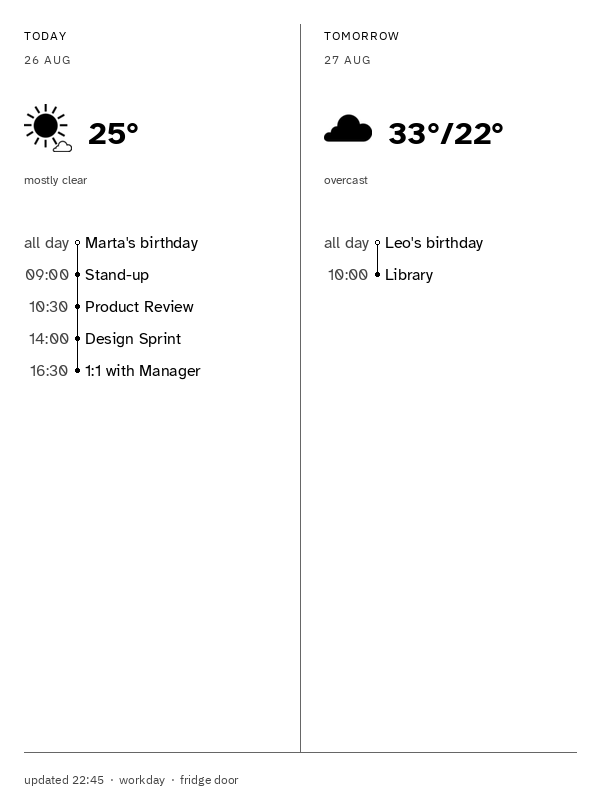
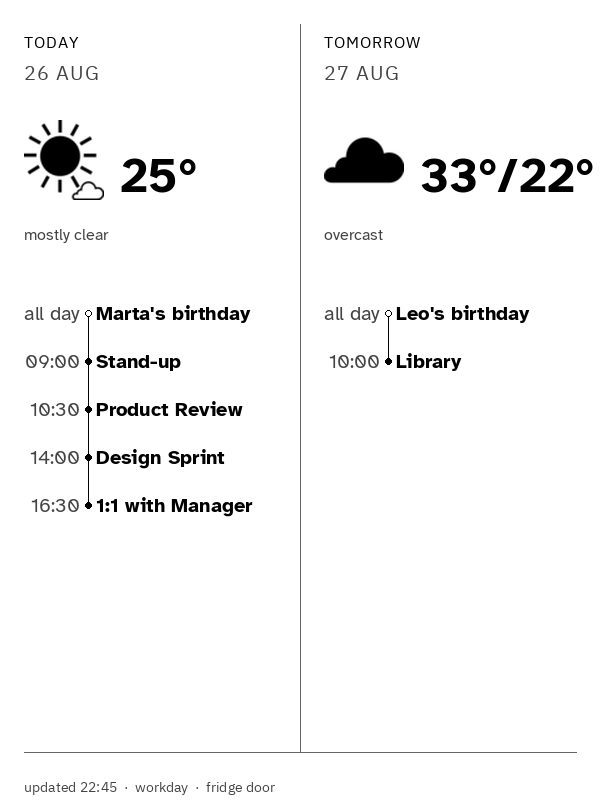
feat✨: ship image entity as 0.2.3
Add a HomeKindle device with image.homekindle_dashboard
so the PNG can be previewed and added to Lovelace.
Enlarge dashboard type for fridge glance and refresh
the README screenshot.

diff --git a/custom_components/homekindle/image.py b/custom_components/homekindle/image.py
@@ -1,0 +1,118 @@
+"""Dashboard image entity. Helpers stay importable without Home Assistant."""
+
+from __future__ import annotations
+
+import logging
+from typing import Any
+
+from .const import DOMAIN
+from .options import (
+    CONF_KINDLE_MODEL,
+    CONF_REFRESH_MINUTES,
+    DEFAULT_REFRESH_MINUTES,
+    KINDLE_PW1,
+    KINDLE_TOUCH,
+    refresh_interval,
+)
+
+_LOGGER = logging.getLogger(__name__)
+
+
+def kindle_model_label(model: str) -> str:
+    if model == KINDLE_PW1:
+        return "Paperwhite 1"
+    return "Kindle Touch"
+
+
+def dashboard_unique_id(entry_id: str) -> str:
+    return f"{entry_id}_dashboard"
+
+
+def dashboard_device_info(entry_id: str, model: str) -> dict[str, Any]:
+    known = model if model in {KINDLE_TOUCH, KINDLE_PW1} else KINDLE_TOUCH
+    return {
+        "identifiers": {(DOMAIN, entry_id)},
+        "name": "HomeKindle",
+        "manufacturer": "HomeKindle",
+        "model": kindle_model_label(known),
+        "model_id": known,
+    }
+
+
+try:
+    from homeassistant.components.image import ImageEntity
+    from homeassistant.config_entries import ConfigEntry
+    from homeassistant.core import HomeAssistant, callback
+    from homeassistant.helpers.device_registry import DeviceInfo
+    from homeassistant.helpers.entity_platform import AddEntitiesCallback
+    from homeassistant.helpers.update_coordinator import DataUpdateCoordinator
+    from homeassistant.util import dt as dt_util
+
+    from .dashboard import render_or_last_good
+    from .ha_view import ha_states
+
+    async def async_setup_entry(
+        hass: HomeAssistant,
+        entry: ConfigEntry,
+        async_add_entities: AddEntitiesCallback,
+    ) -> None:
+        options = hass.data[DOMAIN]["options"]
+        minutes = int(options.get(CONF_REFRESH_MINUTES) or DEFAULT_REFRESH_MINUTES)
+
+        async def _async_update() -> bytes:
+            opts = hass.data[DOMAIN]["options"]
+            return await hass.async_add_executor_job(
+                render_or_last_good, opts, ha_states(hass)
+            )
+
+        coordinator: DataUpdateCoordinator[bytes] = DataUpdateCoordinator(
+            hass,
+            _LOGGER,
+            config_entry=entry,
+            name="homekindle",
+            update_interval=refresh_interval(minutes),
+            update_method=_async_update,
+            always_update=False,
+        )
+        await coordinator.async_config_entry_first_refresh()
+        async_add_entities([HomeKindleImage(hass, entry, coordinator)])
+
+    class HomeKindleImage(ImageEntity):
+        _attr_has_entity_name = True
+        _attr_translation_key = "dashboard"
+        _attr_content_type = "image/png"
+
+        def __init__(
+            self,
+            hass: HomeAssistant,
+            entry: ConfigEntry,
+            coordinator: DataUpdateCoordinator[bytes],
+        ) -> None:
+            super().__init__(hass)
+            self.coordinator = coordinator
+            model = str(
+                hass.data[DOMAIN]["options"].get(CONF_KINDLE_MODEL) or KINDLE_TOUCH
+            )
+            self._attr_unique_id = dashboard_unique_id(entry.entry_id)
+            self._attr_device_info = DeviceInfo(
+                **dashboard_device_info(entry.entry_id, model)
+            )
+            if coordinator.data:
+                self._attr_image_last_updated = dt_util.utcnow()
+
+        async def async_added_to_hass(self) -> None:
+            await super().async_added_to_hass()
+            self.async_on_remove(
+                self.coordinator.async_add_listener(self._handle_coordinator_update)
+            )
+
+        @callback
+        def _handle_coordinator_update(self) -> None:
+            self._attr_image_last_updated = dt_util.utcnow()
+            self.async_write_ha_state()
+
+        async def async_image(self) -> bytes | None:
+            return self.coordinator.data
+
+except ImportError:
+    pass

diff --git a/custom_components/homekindle/render.py b/custom_components/homekindle/render.py
@@ -25,12 +25,12 @@ _TIMELINE: dict[str, tuple[int, tuple[int, ...]]] = {}
 
 # 8pt spacing grid (600 and 800 divide by 8). Boxes and gaps are the rhythm;
 # glyphs sit inset from the box, not locked to a typographic baseline.
-# Type scale 12 / 16 / 32. Paragraph 16, after heading 16, before section 32.
+# Fridge glance scale 16 / 20 / 48. After heading 16, before section 32.
 B = 8
 PAD = 3 * B
-BOX_META = 3 * B
-BOX_WEATHER = 6 * B
-BOX_EVENT = 4 * B
+BOX_META = 4 * B
+BOX_WEATHER = 10 * B
+BOX_EVENT = 6 * B
 GAP_AFTER = 2 * B
 GAP_BEFORE = 4 * B
 Y_HEADING = PAD
@@ -42,16 +42,16 @@ Y_CONDITION = Y_ICON + ICON + GAP_AFTER
 Y_EVENTS = Y_CONDITION + BOX_META + GAP_BEFORE
 EVENT_STEP = BOX_EVENT
 GUTTER = B
-DOT_R = 2
+DOT_R = 3
 FOOTER = 6 * B
 LABEL_TRACK = 1
-SZ_LABEL = 12
-SZ_DATE = 12
-SZ_TEMP = 32
-SZ_COND = 12
-SZ_TIME = 16
-SZ_TITLE = 16
-SZ_FOOT = 12
+SZ_LABEL = 16
+SZ_DATE = 20
+SZ_TEMP = 48
+SZ_COND = 16
+SZ_TIME = 20
+SZ_TITLE = 20
+SZ_FOOT = 14
 
 
 def last_text_blobs() -> tuple[str, ...]:
@@ -205,7 +205,7 @@ def _column(
         icon_y = _px(Y_ICON, scale)
         image.paste(petroff_png(weather.wmo_code, icon_n), (x + pad, icon_y))
         temp = _temp_label(weather)
-        temp_font = _bold_font(max(20, _px(SZ_TEMP, scale)))
+        temp_font = _bold_font(max(28, _px(SZ_TEMP, scale)))
         draw.text(
             (x + pad + icon_n + _px(ICON_TEMP_GAP, scale), _box_base(icon_y, weather_h, inset)),
             temp,
@@ -225,8 +225,8 @@ def _column(
         _TEXT.extend([temp, weather.condition])
     events = _events_for(fixtures, day)[:max_events]
     y = _px(Y_EVENTS, scale)
-    body = _body_font(max(12, _px(SZ_TITLE, scale)))
-    time_font = _body_font(max(12, _px(SZ_TIME, scale)))
+    body = _bold_font(max(16, _px(SZ_TITLE, scale)))
+    time_font = _body_font(max(16, _px(SZ_TIME, scale)))
     step = _px(EVENT_STEP, scale)
     limit = height_limit(scale)
     if not events:

diff --git a/tests/test_layout.py b/tests/test_layout.py
@@ -12,6 +12,7 @@ from custom_components.homekindle.fixtures import (
 from custom_components.homekindle.layout import load_kindle_yaml, packaged_layout_path
 from custom_components.homekindle.render import (
     BOX_EVENT,
+    DOT_R,
     EVENT_STEP,
     INK,
     PAD,
@@ -22,7 +23,8 @@ from custom_components.homekindle.render import (
     Y_HEADING,
     Y_ICON,
     B,
-    _body_font,
+    SZ_TITLE,
+    _bold_font,
     _ink_mid_from_baseline,
     last_text_blobs,
     last_timeline,
@@ -130,7 +132,7 @@ def test_all_day_fits_and_sorts_first() -> None:
     # "all day" sits left of the line and stays on the canvas
     assert 0 <= line_x - PAD < 90
     assert image.getpixel((line_x, centers[0])) == PAPER
-    assert image.getpixel((line_x, centers[0] - 2)) == INK
+    assert image.getpixel((line_x, centers[0] - DOT_R)) == INK
     mid = (centers[0] + centers[1]) // 2
     assert image.getpixel((line_x, mid)) == INK
     assert image.getpixel((line_x, centers[1])) == INK
@@ -154,6 +156,6 @@ def test_vertical_rhythm_uses_eight_pt_spacing() -> None:
     render_png(fixtures, packaged_layout_path())
     _line_x, centers = last_timeline()["today"]
     assert centers
-    mid = BOX_EVENT - B + _ink_mid_from_baseline(_body_font(16))
+    mid = BOX_EVENT - B + _ink_mid_from_baseline(_bold_font(SZ_TITLE))
     assert all(cy == Y_EVENTS + i * EVENT_STEP + mid for i, cy in enumerate(centers))
     assert centers[1] - centers[0] == EVENT_STEP

diff --git a/tests/test_image.py b/tests/test_image.py
@@ -1,0 +1,34 @@
+"""Image entity helpers. No Home Assistant import required."""
+
+from custom_components.homekindle.const import DOMAIN
+from custom_components.homekindle.image import (
+    dashboard_device_info,
+    dashboard_unique_id,
+    kindle_model_label,
+)
+from custom_components.homekindle.options import KINDLE_PW1, KINDLE_TOUCH
+
+
+def test_kindle_model_label() -> None:
+    assert kindle_model_label(KINDLE_TOUCH) == "Kindle Touch"
+    assert kindle_model_label(KINDLE_PW1) == "Paperwhite 1"
+    assert kindle_model_label("unknown") == "Kindle Touch"
+
+
+def test_dashboard_unique_id() -> None:
+    assert dashboard_unique_id("abc123") == "abc123_dashboard"
+
+
+def test_dashboard_device_info() -> None:
+    info = dashboard_device_info("abc123", KINDLE_TOUCH)
+    assert info["identifiers"] == {(DOMAIN, "abc123")}
+    assert info["name"] == "HomeKindle"
+    assert info["manufacturer"] == "HomeKindle"
+    assert info["model"] == "Kindle Touch"
+    assert info["model_id"] == KINDLE_TOUCH
+
+
+def test_dashboard_device_info_pw1() -> None:
+    info = dashboard_device_info("xyz", KINDLE_PW1)
+    assert info["model"] == "Paperwhite 1"
+    assert info["model_id"] == KINDLE_PW1

diff --git a/custom_components/homekindle/__init__.py b/custom_components/homekindle/__init__.py
@@ -4,7 +4,7 @@ from __future__ import annotations
 
 from typing import Any
 
-from .const import DOMAIN
+from .const import DOMAIN, PLATFORMS
 
 try:
     from homeassistant.core import HomeAssistant
@@ -49,4 +49,9 @@ async def async_setup_entry(hass: HomeAssistant, entry: Any) -> bool:
         opts[CONF_TIMEZONE] = tz
     hass.data.setdefault(DOMAIN, {})["options"] = opts
     dashboard.CURRENT_OPTIONS = opts
+    await hass.config_entries.async_forward_entry_setups(entry, PLATFORMS)
     return True
+
+
+async def async_unload_entry(hass: HomeAssistant, entry: Any) -> bool:
+    return await hass.config_entries.async_unload_platforms(entry, PLATFORMS)

diff --git a/custom_components/homekindle/const.py b/custom_components/homekindle/const.py
@@ -1,6 +1,7 @@
 """HomeKindle constants."""
 
 DOMAIN = "homekindle"
+PLATFORMS = ("image",)
 PNG_WIDTH = 600
 PNG_HEIGHT = 800
 EMPTY_DAY = "nothing booked"

diff --git a/README.md b/README.md
@@ -18,13 +18,14 @@ Weather and a two-day agenda. All-day events use an open ring; timed events use 
 4. Restart Home Assistant.
 5. Settings → Devices & services → Add integration → **HomeKindle**.
 6. Set location (or use HA home), Kindle model, weather model, secret ICS URL, and refresh minutes. Submit.
-7. Check: `curl -I http://homeassistant.local:8123/api/homekindle/dashboard.png`
+7. Open the HomeKindle device. The **Dashboard** image entity shows the same PNG the Kindle fetches. Add `image.homekindle_dashboard` to a Lovelace card if you want it on a dashboard. Configure stays on the integration entry.
+8. Kindle check: `curl -I http://homeassistant.local:8123/api/homekindle/dashboard.png`
 
 Manual install: copy `custom_components/homekindle/` into `/config/custom_components/homekindle/` and restart.
 
 ## Versioning
 
-HACS shows the GitHub **Release** tag. After install, Home Assistant shows `version` from `custom_components/homekindle/manifest.json`. Those two numbers stay the same (`v0.2.2` tag, `"0.2.2"` in the manifest).
+HACS shows the GitHub **Release** tag. After install, Home Assistant shows `version` from `custom_components/homekindle/manifest.json`. Those two numbers stay the same (`v0.2.3` tag, `"0.2.3"` in the manifest).
 
 ## Settings
 

diff --git a/CHANGELOG.md b/CHANGELOG.md
@@ -1,6 +1,16 @@
 # Changelog
 
 
+## [0.2.3] - 2026-08-27
+
+### Added
+
+- HomeKindle device with a `image.homekindle_dashboard` entity for preview and Lovelace.
+
+### Changed
+
+- Larger fridge-glance type on the dashboard PNG.
+
 ## [0.2.2] - 2026-08-27
 
 ### Fixed
